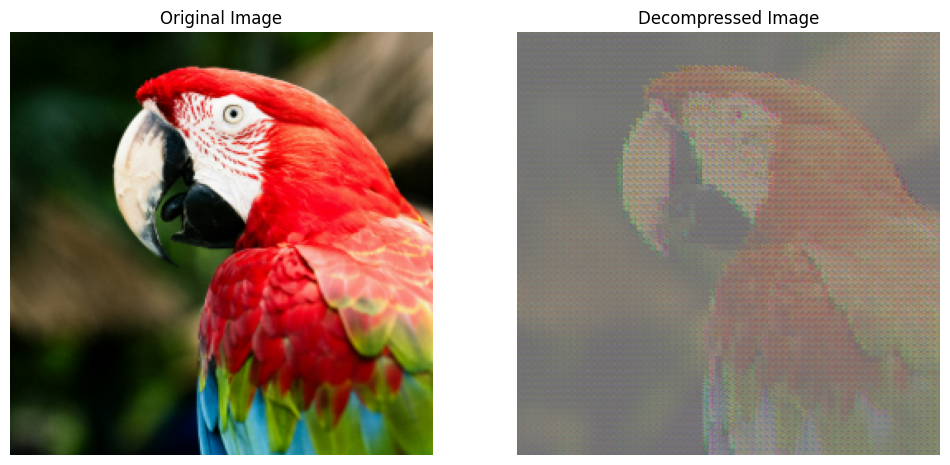
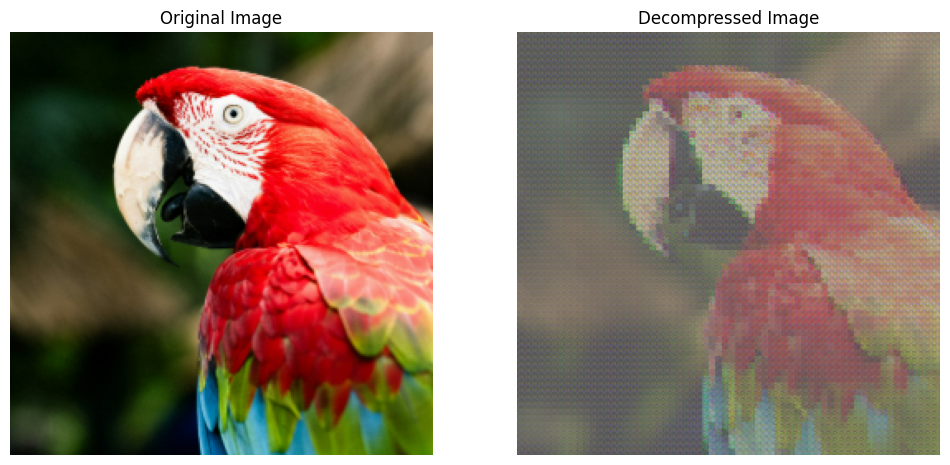
.

Changed region(s): [[0.5495, 0.0602, 1.0, 0.9935], [0.8242, 0.0602, 0.8853, 0.1204], [0.5495, 0.9634, 0.58, 0.9935]]

diff --git a/train_compression.py b/train_compression.py
@@ -28,7 +28,8 @@ def train_model(
     train_loader,
     test_loader,
     *,
-    num_epochs: int = 10,
+    target_mse: float = 1e-4,  # Target MSE to reach
+    max_epochs: int = 10000,   # Maximum epochs to prevent infinite training
     learning_rate: float = 1e-3,
     lr_decay_step: int = 0,
     lr_decay_gamma: float = 0.1,
@@ -37,13 +38,14 @@ def train_model(
     resume: bool = True,
     save_all: bool = False,
 ):
-    """Train the autoencoder with checkpointing and optional LR scheduling.
+    """Train the autoencoder until target MSE is reached or max epochs.
 
     Args:
         model: The neural network to train.
         train_loader: DataLoader for training data.
         test_loader: DataLoader for validation.
-        num_epochs: Number of additional epochs to train.
+        target_mse: Target mean squared error to reach before stopping.
+        max_epochs: Maximum number of epochs to train (prevents infinite training).
         learning_rate: Optimizer learning rate.
         lr_decay_step: Step size for :class:`torch.optim.lr_scheduler.StepLR`.
             If ``0``, no scheduler is used.
@@ -95,13 +97,12 @@ def train_model(
             best_loss = ckpt.get("best_loss", best_loss)
             logger.info("Resumed at epoch %d with best loss %.6f", start_epoch, best_loss)
 
-    for epoch in range(start_epoch, start_epoch + num_epochs):
+    for epoch in range(start_epoch, max_epochs):
         model.train()
         epoch_loss = 0.0
         start = time.time()
         for batch in train_loader:
             batch = batch.to(device)
-            # Resolved conflict: Keep the batch reshaping line
             batch = batch.view(-1, batch.size(-2), 4)
             batch[:, :, 0] = 0.0  # ensure purely imaginary
             out = model(batch)
@@ -110,14 +111,15 @@ def train_model(
             loss.backward()
             optimizer.step()
             epoch_loss += loss.item()
-        logger.info("Epoch %d training loss %.6f (%.2fs)", epoch + 1, epoch_loss / len(train_loader), time.time() - start)
+        
+        avg_epoch_loss = epoch_loss / len(train_loader)
+        logger.info("Epoch %d training loss %.6f (%.2fs)", epoch + 1, avg_epoch_loss, time.time() - start)
 
         model.eval()
         val_loss = 0.0
         with torch.no_grad():
             for batch in test_loader:
                 batch = batch.to(device)
-                # Resolved conflict: Keep the batch reshaping line
                 batch = batch.view(-1, batch.size(-2), 4)
                 batch[:, :, 0] = 0.0
                 out = model(batch)
@@ -147,6 +149,11 @@ def train_model(
         if save_all:
             torch.save(model.state_dict(), save_path / f"checkpoint_epoch_{epoch+1}.pth")
 
+        # Check if we've reached target MSE
+        if avg_epoch_loss <= target_mse:
+            logger.info("Reached target MSE of %.6f at epoch %d", target_mse, epoch + 1)
+            break
+
         if device.type == "cuda":
             # release cached memory after each epoch
             torch.cuda.empty_cache()
@@ -160,7 +167,8 @@ if __name__ == "__main__":
     HIDDEN_Q = 4
 
     parser = argparse.ArgumentParser(description="Train quaternion compression autoencoder")
-    parser.add_argument("--epochs", type=int, default=10, help="Number of epochs to train")
+    parser.add_argument("--target-mse", type=float, default=1e-4, help="Target MSE to reach before stopping")
+    parser.add_argument("--max-epochs", type=int, default=10000, help="Maximum number of epochs to train")
     parser.add_argument("--save-dir", type=str, default="models", help="Directory for checkpoints")
     parser.add_argument("--no-resume", action="store_true", help="Do not resume from latest checkpoint")
     parser.add_argument("--save-all", action="store_true", help="Keep checkpoint for every epoch")
@@ -176,7 +184,8 @@ if __name__ == "__main__":
         model,
         train_loader,
         test_loader,
-        num_epochs=args.epochs,
+        target_mse=args.target_mse,
+        max_epochs=args.max_epochs,
         device=device,
         save_dir=args.save_dir,
         resume=not args.no_resume,
